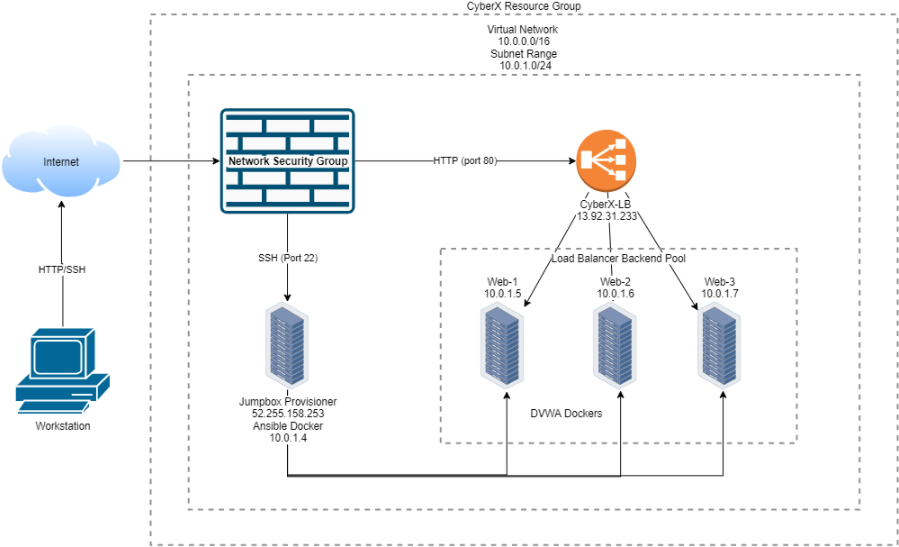
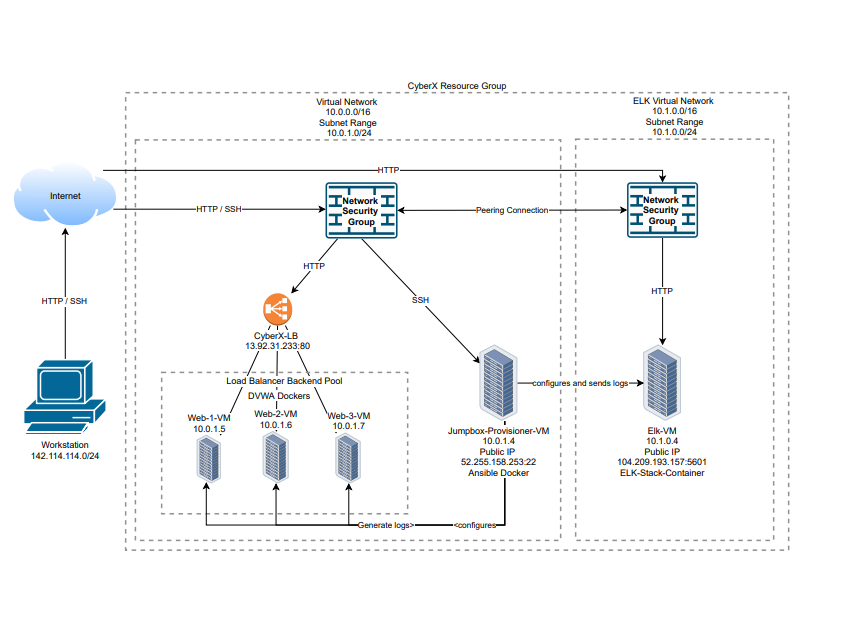
second commit

diff --git a/README.md b/README.md
@@ -1,2 +1,83 @@
-# Project-ELK-stack
-Introduction to Cloud security
+## Automated ELK Stack Deployment
+
+The files in this repository were used to configure the network depicted below.
+
+Diagrams/diagram.png
+
+These files have been tested and used to generate a live ELK deployment on Azure. They can be used to either recreate the entire deployment pictured above. Alternatively, select portions of the Ansible directory may be used to install only certain pieces of it, such as Filebeat.
+
+This document contains the following details:
+- Description of the Topology
+- Access Policies
+- ELK Configuration
+  - Beats in Use
+  - Machines Being Monitored
+- How to Use the Ansible Build
+
+
+### Description of the Topology
+
+The main purpose of this network is to expose a load-balanced and monitored instance of DVWA, the D*mn Vulnerable Web Application.
+
+Load balancing ensures that the application will be highly available, in addition to restricting access to the network.
+
+Integrating an ELK server allows users to easily monitor the vulnerable VMs for changes to the log data and system metrics and statistics.
+
+The configuration details of each machine may be found below.
+
+| Name     | Function   | IP Address | Operating System |
+|----------|------------|------------|------------------|
+| Jump Box | Gateway    | 10.0.0.1   | Linux            |
+| Web-1    | Web Server | 10.0.1.5   | Linux            |
+| Web-2    | Web Server | 10.0.1.6   | Linux            |
+| Web-3    | Web Server | 10.0.1.7   | Linux            |
+
+### Access Policies
+
+The machines on the internal network are not exposed to the public Internet. 
+
+Only the Network Security Group machine can accept connections from the Internet. Access to this machine is only allowed from the "workstation".
+
+
+Machines within the network can only be accessed by Jumpbox Provisioner 52.255.158.253
+
+A summary of the access policies in place can be found in the table below.
+
+| Name            | Publicly Accessible | Allowed IP Addresses    |
+|-----------------|---------------------|-------------------------|
+| Jump Box        | no                  |workstation IP           |
+| virtual Network | no                  |Jumpbox 52.255.158.253   |
+| Web-1,2, and 3  | no                  |workstation IP           |
+
+
+### Elk Configuration
+
+Ansible was used to automate configuration of the ELK machine. No configuration was performed manually, which is advantageous because consistent configurations is guaranteed.
+
+The playbook implements the following tasks:
+- Configure ELK server
+- Maximize RAM usage
+- Install docker containers
+- download an ELK container
+
+The following screenshot displays the result of running `docker ps` after successfully configuring the ELK instance.
+
+Images/docker_ps_output.png)
+
+### Target Machines & Beats
+This ELK server is configured to monitor the following machines:
+10.0.1.5
+10.0.1.6
+10.0.1.7
+
+We have installed the following Beats on these machines:
+filebeat
+
+### Using the filebeat Playbook
+In order to use the playbook, you will need to have an Ansible control node already configured. Assuming you have such a control node provisioned: 
+
+SSH into the control node and follow the steps below:
+- Copy the filebeat_playbook.yml.txt file to /etc/ansible/roles
+- Update the ansible config file to include webserver IP addresses under a group called [webservers] (10.0.1.5, 10.0.1.6, 10.0.1.7)
+- Run the playbook, and navigate to http://104.209.193.157:5601/ to check that the installation worked as expected.
+
